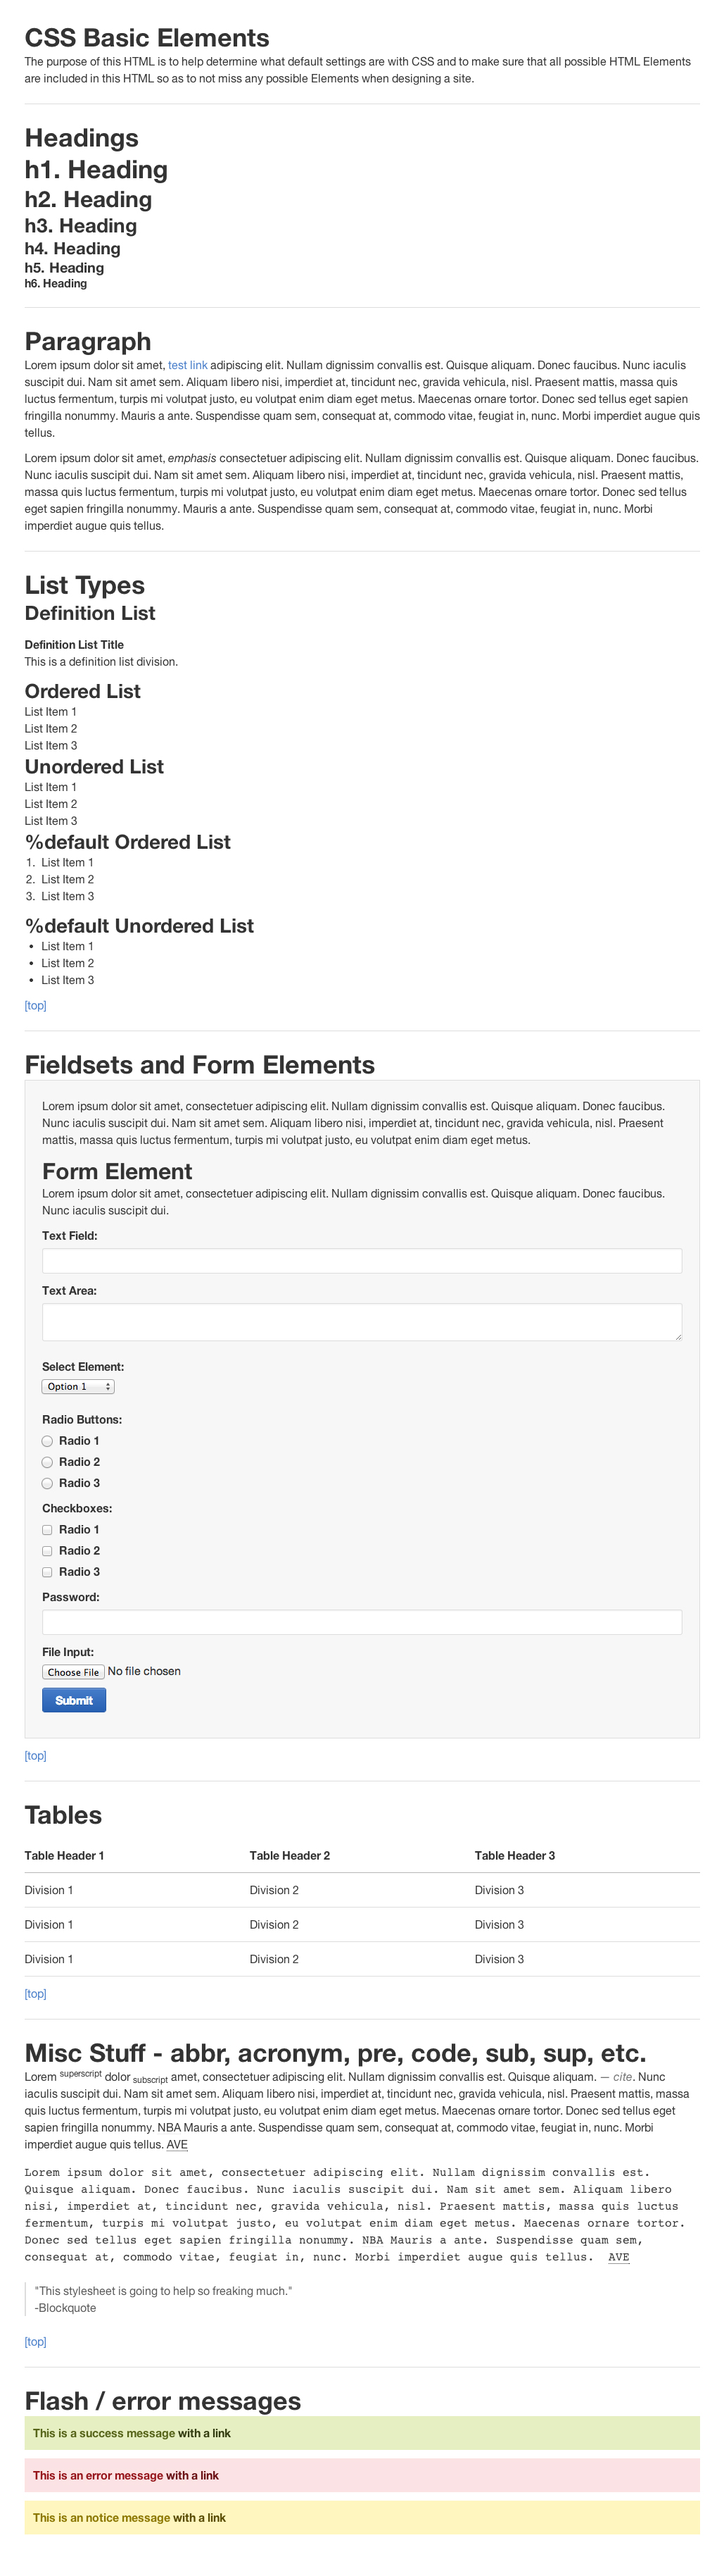
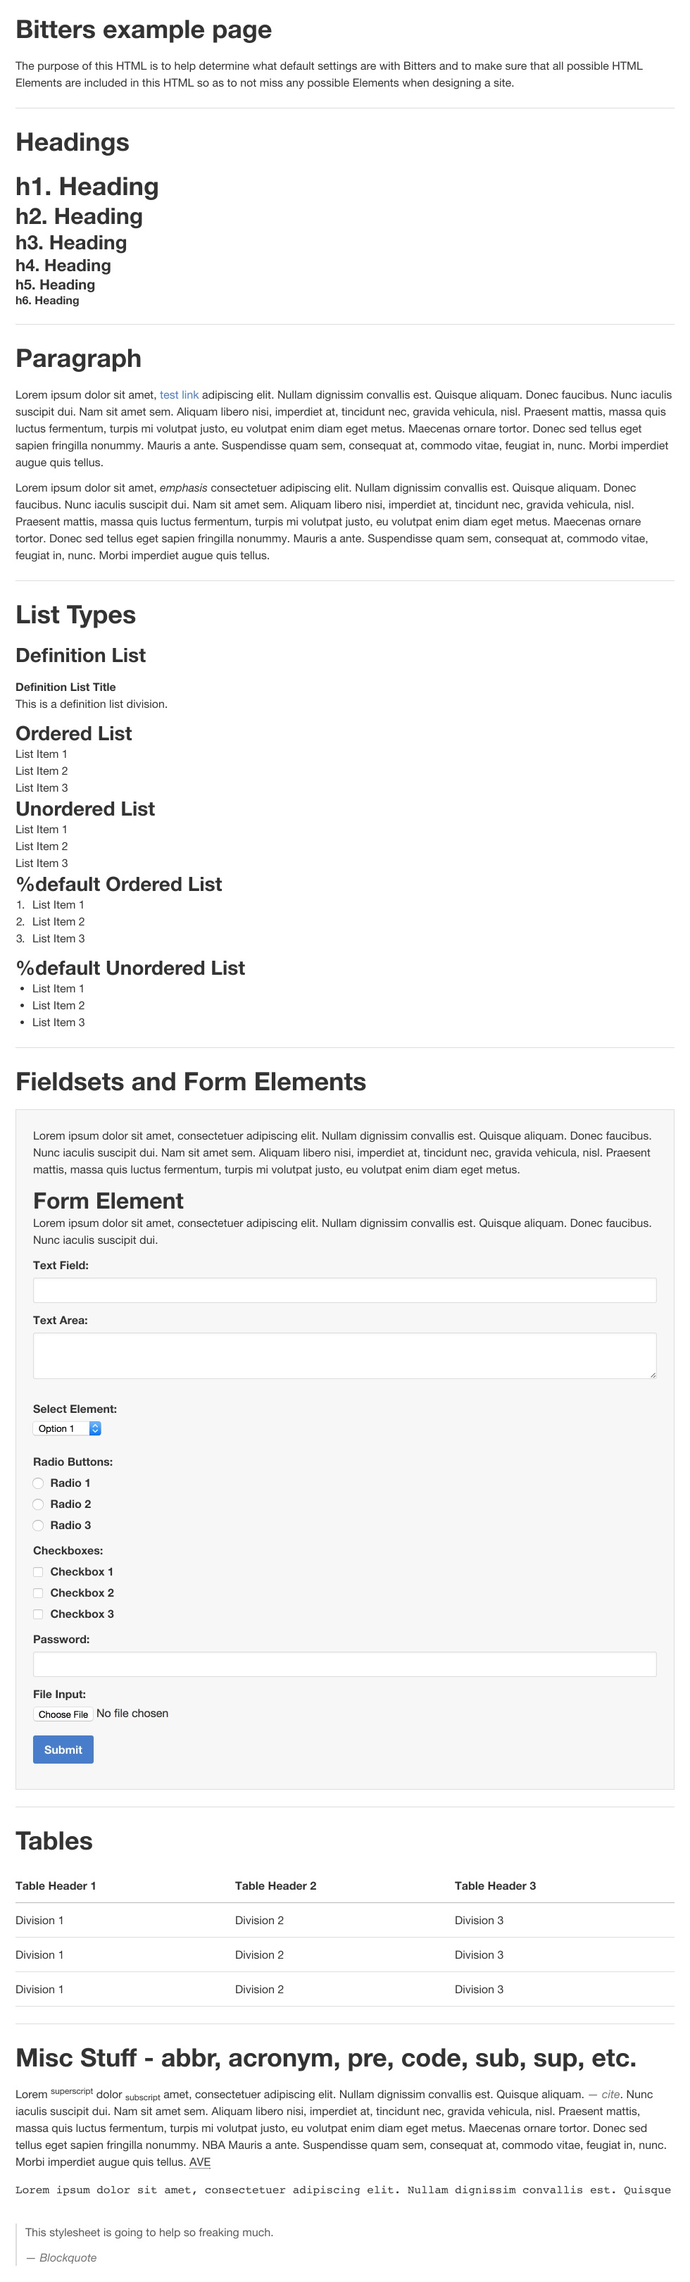
Remove Flashes and Errors from marketing site
* Fixes #121

diff --git a/example.html b/example.html
@@ -9,7 +9,7 @@ class: example
 
   <p>The purpose of this HTML is to help determine what default settings are with Bitters and to make sure that all possible HTML Elements are included in this HTML so as to not miss any possible Elements when designing a site.</p>
 
-  <hr />
+  <hr>
 
   <h1 id="headings">Headings</h1>
 
@@ -20,7 +20,7 @@ class: example
   <h5>h5. Heading</h5>
   <h6>h6. Heading</h6>
 
-  <hr />
+  <hr>
 
   <h1 id="paragraph">Paragraph</h1>
 
@@ -28,7 +28,7 @@ class: example
 
   <p>Lorem ipsum dolor sit amet, <em>emphasis</em> consectetuer adipiscing elit. Nullam dignissim convallis est. Quisque aliquam. Donec faucibus. Nunc iaculis suscipit dui. Nam sit amet sem. Aliquam libero nisi, imperdiet at, tincidunt nec, gravida vehicula, nisl. Praesent mattis, massa quis luctus fermentum, turpis mi volutpat justo, eu volutpat enim diam eget metus. Maecenas ornare tortor. Donec sed tellus eget sapien fringilla nonummy. Mauris a ante. Suspendisse quam sem, consequat at, commodo vitae, feugiat in, nunc. Morbi imperdiet augue quis tellus.</p>
 
-  <hr />
+  <hr>
 
   <h1 id="list_types">List Types</h1>
 
@@ -66,7 +66,7 @@ class: example
     <li>List Item 3</li>
   </ul>
 
-  <hr />
+  <hr>
 
   <h1 id="form_elements">Fieldsets and Form Elements</h1>
 
@@ -135,7 +135,7 @@ class: example
     </form>
   </fieldset>
 
-  <hr />
+  <hr>
 
   <h1 id="tables">Tables</h1>
 
@@ -154,35 +154,18 @@ class: example
     </tr>
   </table>
 
-  <hr />
+  <hr>
 
   <h1 id="misc">Misc Stuff - abbr, acronym, pre, code, sub, sup, etc.</h1>
 
-  <p>Lorem <sup>superscript</sup> dolor <sub>subscript</sub> amet, consectetuer adipiscing elit. Nullam dignissim convallis est. Quisque aliquam. <cite>cite</cite>. Nunc iaculis suscipit dui. Nam sit amet sem. Aliquam libero nisi, imperdiet at, tincidunt nec, gravida vehicula, nisl. Praesent mattis, massa quis luctus fermentum, turpis mi volutpat justo, eu volutpat enim diam eget metus. Maecenas ornare tortor. Donec sed tellus eget sapien fringilla nonummy. <acronym title="National Basketball Association">NBA</acronym> Mauris a ante. Suspendisse quam sem, consequat at, commodo vitae, feugiat in, nunc. Morbi imperdiet augue quis tellus.  <abbr title="Avenue">AVE</abbr></p>
+  <p>Lorem <sup>superscript</sup> dolor <sub>subscript</sub> amet, consectetuer adipiscing elit. Nullam dignissim convallis est. Quisque aliquam. <cite>cite</cite>. Nunc iaculis suscipit dui. Nam sit amet sem. Aliquam libero nisi, imperdiet at, tincidunt nec, gravida vehicula, nisl. Praesent mattis, massa quis luctus fermentum, turpis mi volutpat justo, eu volutpat enim diam eget metus. Maecenas ornare tortor. Donec sed tellus eget sapien fringilla nonummy. <acronym title="National Basketball Association">NBA</acronym> Mauris a ante. Suspendisse quam sem, consequat at, commodo vitae, feugiat in, nunc. Morbi imperdiet augue quis tellus. <abbr title="Avenue">AVE</abbr></p>
 
-  <pre><p>Lorem ipsum dolor sit amet, consectetuer adipiscing elit. Nullam dignissim convallis est. Quisque aliquam. Donec faucibus. Nunc iaculis suscipit dui. Nam sit amet sem. Aliquam libero nisi, imperdiet at, tincidunt nec, gravida vehicula, nisl. Praesent mattis, massa quis luctus fermentum, turpis mi volutpat justo, eu volutpat enim diam eget metus. Maecenas ornare tortor. Donec sed tellus eget sapien fringilla nonummy. <acronym title="National Basketball Association">NBA</acronym> Mauris a ante. Suspendisse quam sem, consequat at, commodo vitae, feugiat in, nunc. Morbi imperdiet augue quis tellus.  <abbr title="Avenue">AVE</abbr></p></pre>
+  <pre><p>Lorem ipsum dolor sit amet, consectetuer adipiscing elit. Nullam dignissim convallis est. Quisque aliquam. Donec faucibus. Nunc iaculis suscipit dui. Nam sit amet sem. Aliquam libero nisi, imperdiet at, tincidunt nec, gravida vehicula, nisl. Praesent mattis, massa quis luctus fermentum, turpis mi volutpat justo, eu volutpat enim diam eget metus. Maecenas ornare tortor. Donec sed tellus eget sapien fringilla nonummy. <acronym title="National Basketball Association">NBA</acronym> Mauris a ante. Suspendisse quam sem, consequat at, commodo vitae, feugiat in, nunc. Morbi imperdiet augue quis tellus. <abbr title="Avenue">AVE</abbr></p></pre>
 
   <blockquote>
     <p> This stylesheet is going to help so freaking much.</p>
     <cite>Blockquote</cite>
   </blockquote>
 
-  <hr />
-
-  <h1 id="flashes">Flash / error messages</h1>
-  <div class="success">
-    <span>This is a success message <a href="#">with a link</a></span>
-  </div>
-  <div class="error">
-    <span>This is an error message <a href="#">with a link</a></span>
-  </div>
-  <div class="notice">
-    <span>This is a notice message <a href="#">with a link</a></span>
-  </div>
-  <div class="alert">
-    <span>This is an alert message <a href="#">with a link</a></span>
-  </div>
-
-  <hr />
+  <hr>
 </div>
-

diff --git a/index.html b/index.html
@@ -57,11 +57,6 @@ class: index
     <h2><a href="//github.com/thoughtbot/bitters/blob/master/app/assets/stylesheets/_forms.scss">Forms</a></h2>
     <p>Adds basic styles all form elements. Form-specific variables make it really easy to be overridden.</p>
   </article>
-
-  <article class="flashes">
-    <h2><a href="//github.com/thoughtbot/bitters/blob/master/app/assets/stylesheets/extends/_flashes.scss">Flashes</a> &amp; <a href="//github.com/thoughtbot/bitters/blob/master/app/assets/stylesheets/extends/_errors.scss">Errors</a></h2>
-    <p>Used for any flash messages for applications. Specifically made for Rails application notices. Error styles made for styling labels with errors or warnings.</p>
-  </article>
 </section>
 
 <section id="install" class="instructions">

diff --git a/_sass/index/_index.scss b/_sass/index/_index.scss
@@ -192,13 +192,9 @@
       @include media($min-medium-screen) {
         @include span-columns(4);
         @include omega(3n);
-
-        &:last-child {
-          @include shift(4);
-        }
       };
 
-      $feature-list: structure, variables, grid, type, lists, forms, flashes;
+      $feature-list: structure, variables, grid, type, lists, forms;
 
       @each $feature in $feature-list {
         &.#{$feature} h2 {

diff --git a/_sass/components/_fontello.scss b/_sass/components/_fontello.scss
@@ -31,10 +31,6 @@
   content: '\e801';
 }
 
-%flashes:before {
-  content: '\e800';
-}
-
 %grid:before {
   content: '\e808';
 }
